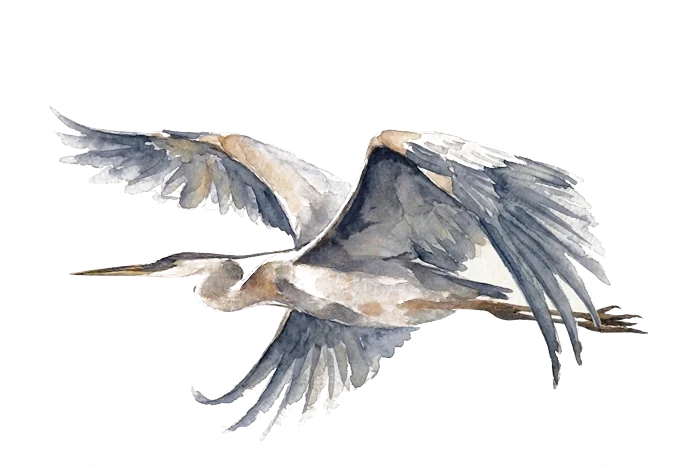
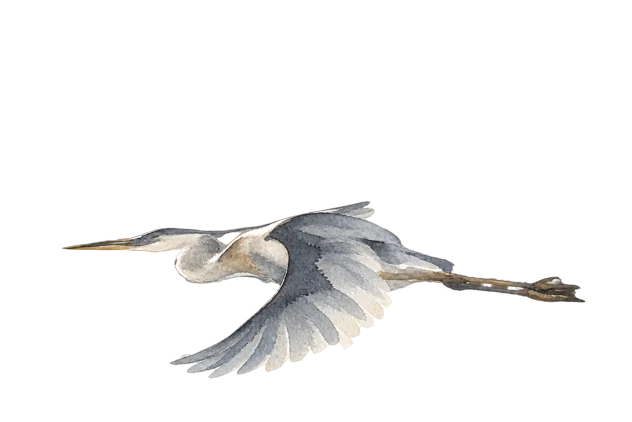
New plates: wide-crowned far mangrove, tight near roots, sparse corals, fixed wingbeat frame

Changed region(s): [[0.0601, 0.2464, 0.932, 0.9242]]

diff --git a/src/js/mar.js b/src/js/mar.js
@@ -301,10 +301,11 @@ void main(){
         /* Nunca una cinta continua: se desvanece por arriba —el corte
            recto se veía— y se abre en claros con una onda lenta, para
            que haya agua limpia entre las matas. La paz es el vacío. */
-        float entra = smoothstep(0.0, 0.42, cv);
-        float claros = 0.55 + 0.45 * smoothstep(0.35, 0.75,
-                        fbm(vec2(q.x * 0.9 + 3.0, 0.0)));
-        col = mix(col, pc, tc.a * mix(0.16, 0.62, profC) * entra * claros);
+        /* La lámina nueva ya trae el vacío —cuatro matas y mucha arena—,
+           así que no hay que abrirle claros por código: eso la borraba.
+           Solo se desvanece por arriba, para que no haya canto recto. */
+        float entra = smoothstep(0.0, 0.30, cv);
+        col = mix(col, pc, tc.a * mix(0.45, 0.92, profC) * entra);
       }
     }
   }
@@ -418,6 +419,12 @@ void main(){
     vec2 mc = vec2((q.x - kx) / kAncho, (uv.y - u_cercaCaja.z) / kAlto);
     if (mc.x > 0.0 && mc.x < 1.0 && mc.y > 0.0 && mc.y < 1.0) {
       vec4 tk = texture(u_manglarCerca, mc);
+      /* La lámina llega llena hasta sus bordes —se pidió así— y al
+         recortarla en su caja se veía el canto recto. Aquí se desvanece
+         en sus propios bordes: deja de ser un recorte pegado y pasa a
+         perderse fuera de cuadro. */
+      tk.a *= smoothstep(0.0, 0.13, mc.x) * (1.0 - smoothstep(0.86, 1.0, mc.x))
+            * smoothstep(0.0, 0.10, mc.y) * (1.0 - smoothstep(0.82, 1.0, mc.y));
       vec3 oscuroC = mix(vec3(0.085, 0.082, 0.090), u_agua * 0.30, 0.35);
       vec3 claroC  = mix(u_bruma, u_altas, 0.30) * 0.78;
       vec3 pk = duotono(tk.rgb, oscuroC, claroC);
@@ -549,8 +556,8 @@ export function crear(lienzo) {
   /* El manglar cercano tiene que DOMINAR la esquina inferior izquierda:
      es el primer plano y es el posadero. A 0.52 de alto quedaba como una
      mancha en el canto. */
-  const cercaCaja = [-0.10, 0.86, -0.30, 1.5];
-  const coralesCaja = [0.26, 0.245, 3.0];
+  const cercaCaja = [-0.16, 0.62, -0.26, 1.5];
+  const coralesCaja = [0.30, 0.30, 4.0];
   gl.uniform4fv(u.u_cercaCaja, cercaCaja);
   gl.uniform3fv(u.u_coralesCaja, coralesCaja);
   gl.uniform1i(u.u_medioCalmo, 9);

diff --git a/src/js/main.js b/src/js/main.js
@@ -421,7 +421,7 @@ const VUELO = {
   f03: { src: ARTE + 'aves/ave03.webp', cx: 0.541, cy: 0.429, ancho: 0.828, aspecto: 1.499 },
   f04: { src: ARTE + 'aves/ave04.webp', cx: 0.523, cy: 0.453, ancho: 0.861, aspecto: 1.499 },
   f05: { src: ARTE + 'aves/ave05.webp', cx: 0.517, cy: 0.481, ancho: 0.853, aspecto: 1.499 },
-  f06: { src: ARTE + 'aves/ave06.webp', cx: 0.526, cy: 0.533, ancho: 0.853, aspecto: 1.499 },
+  f06: { src: ARTE + 'aves/ave06.webp', cx: 0.490, cy: 0.667, ancho: 0.826, aspecto: 1.500 },
   f07: { src: ARTE + 'aves/ave07.webp', cx: 0.490, cy: 0.482, ancho: 0.853, aspecto: 1.499 },
   f08: { src: ARTE + 'aves/ave08.webp', cx: 0.512, cy: 0.513, ancho: 0.824, aspecto: 1.499 },
   f09: { src: ARTE + 'aves/ave09.webp', cx: 0.539, cy: 0.515, ancho: 0.824, aspecto: 1.499 },
@@ -454,6 +454,9 @@ const HASTA_POSADA = FASES.reduce((s, f) => s + f[1], 0);
        d 0.411 · g 0.504 · b 0.511 · f 0.520 · e 0.565
    Con 'a' arriba del todo. Bajada y subida usan las mismas láminas, que
    es lo que pasa de verdad: el ala cruza dos veces cada posición. */
+/* ave06 regenerada: ahora tiene exactamente dos alas —la cercana abajo
+   y la lejana oculta tras el cuerpo— y su centroide baja a 0.667, el más
+   bajo de las diez. Es el fondo del batido y vuelve al ciclo. */
 const CICLO = ['f01','f02','f03','f04','f05','f06','f07','f08','f09','f11'];
 const MS_CUADRO = 150;  // 10 pasos x 150 ms = 0.67 batidos/s
 
